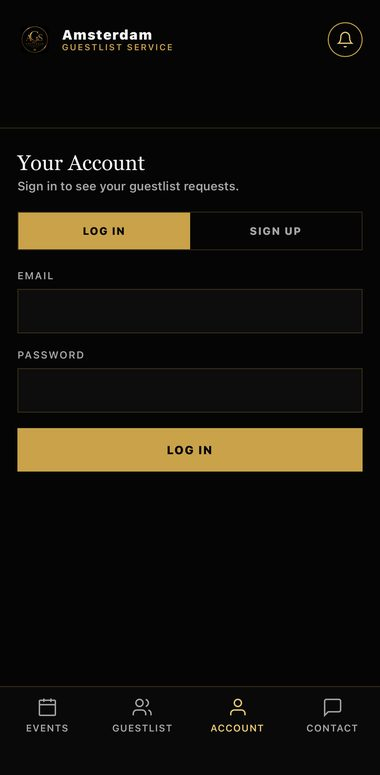
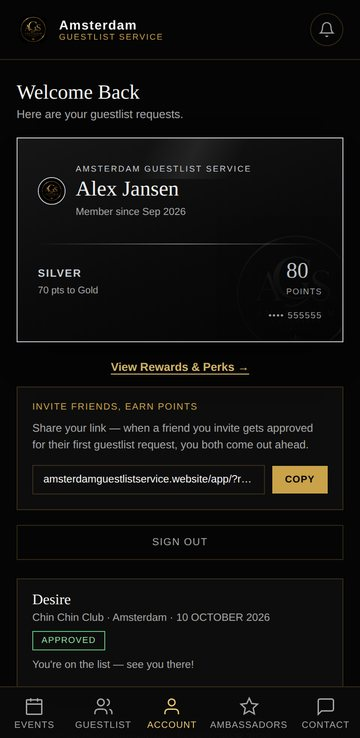
Refresh app welcome tour: new screenshots of the current app and clearer copy
Claude-Session: https://claude.ai/code/session_01HgK5Co4yh8o9amoUsrSkQA

diff --git a/app/index.html b/app/index.html
@@ -268,6 +268,7 @@ body.is-gated #tab-account{ display:block !important; }
 .tour-screenshot img{
   width:150px; height:auto;
   border:1px solid var(--gold);
+  border-radius:14px;
   box-shadow:0 20px 40px -20px rgba(0,0,0,0.8);
 }
 .tour-screenshot.is-bell img{
@@ -533,7 +534,7 @@ body.is-gated #tab-account{ display:block !important; }
       </div>
       <div class="sheet__body" style="text-align:center;">
         <h2 class="welcome-sheet__title">Hi, I'm Keurten<br>your concierge</h2>
-        <p class="welcome-sheet__sub">I'll show you around in a few taps. Your night starts here — curated events, guestlist access, and tables, all in one place.</p>
+        <p class="welcome-sheet__sub">Welcome to Amsterdam Guestlist Service. In a few taps I'll show you how to get on the list for the best nights in Amsterdam.</p>
       </div>
     </div>
 
@@ -542,18 +543,28 @@ body.is-gated #tab-account{ display:block !important; }
         <img src="tour-events.jpg" alt="Events tab">
       </div>
       <div class="sheet__body" style="text-align:center;">
-        <h2 class="welcome-sheet__title">Discover the Nights</h2>
-        <p class="welcome-sheet__sub">Curated Amsterdam events, updated regularly. Tap any event to see the full details.</p>
+        <h2 class="welcome-sheet__title">See What's On</h2>
+        <p class="welcome-sheet__sub">This Week shows the next parties first. Filter by club to find your night.</p>
       </div>
     </div>
 
     <div class="tour-slide">
       <div class="tour-screenshot">
-        <img src="tour-guestlist.jpg" alt="Guestlist tab">
+        <img src="tour-sheet.jpg" alt="Event details">
+      </div>
+      <div class="sheet__body" style="text-align:center;">
+        <h2 class="welcome-sheet__title">Everything in One Tap</h2>
+        <p class="welcome-sheet__sub">Open any event to request the guestlist, buy tickets, book a table, add it to your calendar or share it with friends.</p>
+      </div>
+    </div>
+
+    <div class="tour-slide">
+      <div class="tour-screenshot">
+        <img src="tour-guestlist.jpg" alt="Guestlist request form">
       </div>
       <div class="sheet__body" style="text-align:center;">
         <h2 class="welcome-sheet__title">Get On the List</h2>
-        <p class="welcome-sheet__sub">Request guestlist access in seconds, right from your phone — no forms, no waiting in line.</p>
+        <p class="welcome-sheet__sub">Pick your event, add your friends and send your request. We'll notify you the moment you're approved.</p>
       </div>
     </div>
 
@@ -563,7 +574,17 @@ body.is-gated #tab-account{ display:block !important; }
       </div>
       <div class="sheet__body" style="text-align:center;">
         <h2 class="welcome-sheet__title">Earn as You Go</h2>
-        <p class="welcome-sheet__sub">Sign up for an account to track requests, earn points, and climb from Bronze to VIP.</p>
+        <p class="welcome-sheet__sub">Every approved night earns you points. Track your requests and climb from Bronze to VIP to unlock more perks.</p>
+      </div>
+    </div>
+
+    <div class="tour-slide">
+      <div class="tour-screenshot">
+        <img src="tour-ambassadors.jpg" alt="Ambassadors tab">
+      </div>
+      <div class="sheet__body" style="text-align:center;">
+        <h2 class="welcome-sheet__title">Bring Your Crew</h2>
+        <p class="welcome-sheet__sub">Love promoting the nights? Become an ambassador: post the party, send us your names and get guestlist priority.</p>
       </div>
     </div>
 
@@ -573,12 +594,14 @@ body.is-gated #tab-account{ display:block !important; }
       </div>
       <div class="sheet__body" style="text-align:center;">
         <h2 class="welcome-sheet__title">Never Miss a Night</h2>
-        <p class="welcome-sheet__sub">Tap the bell up top to get notified the moment a new event drops.</p>
+        <p class="welcome-sheet__sub">Tap the bell up top to turn on notifications. You'll hear the moment you're approved or a new event drops.</p>
       </div>
     </div>
 
     <div class="tour-dots" id="tourDots">
       <span class="tour-dot is-active"></span>
+      <span class="tour-dot"></span>
+      <span class="tour-dot"></span>
       <span class="tour-dot"></span>
       <span class="tour-dot"></span>
       <span class="tour-dot"></span>

diff --git a/app/service-worker.js b/app/service-worker.js
@@ -1,7 +1,7 @@
 // Minimal service worker — enables "Add to Home Screen" installability
 // and basic offline support (cache-first for the app shell, since the
 // event data is embedded directly in index.html rather than fetched).
-const CACHE_NAME = 'ags-app-v47';
+const CACHE_NAME = 'ags-app-v48';
 const APP_SHELL = [
   './index.html',
   './manifest.json',
@@ -9,8 +9,10 @@ const APP_SHELL = [
   './icon-512.png',
   './concierge.jpg',
   './tour-events.jpg',
+  './tour-sheet.jpg',
   './tour-guestlist.jpg',
   './tour-account.jpg',
+  './tour-ambassadors.jpg',
   './tour-bell.jpg',
   './app.js',
   './supabase-config.js'
